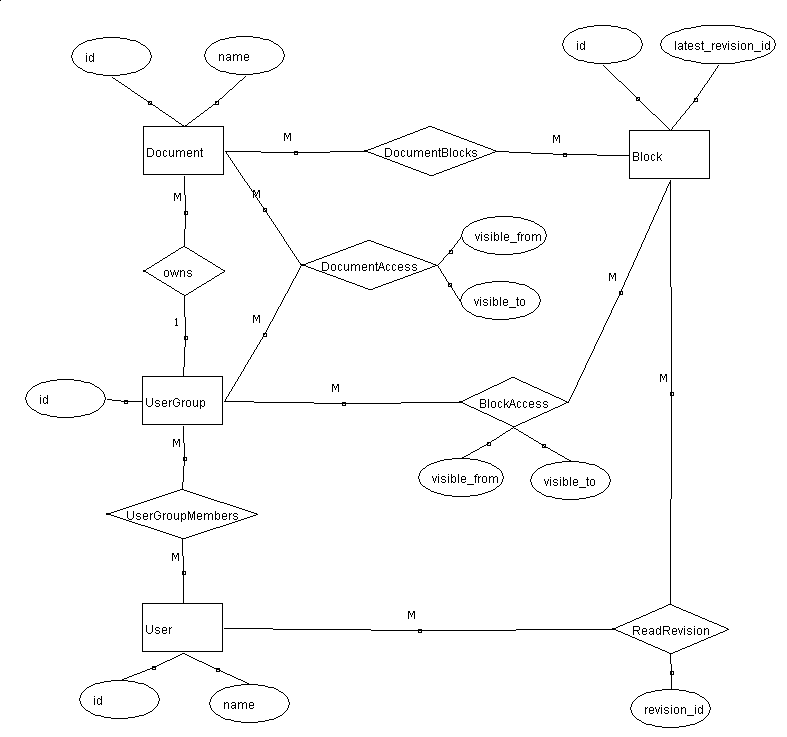
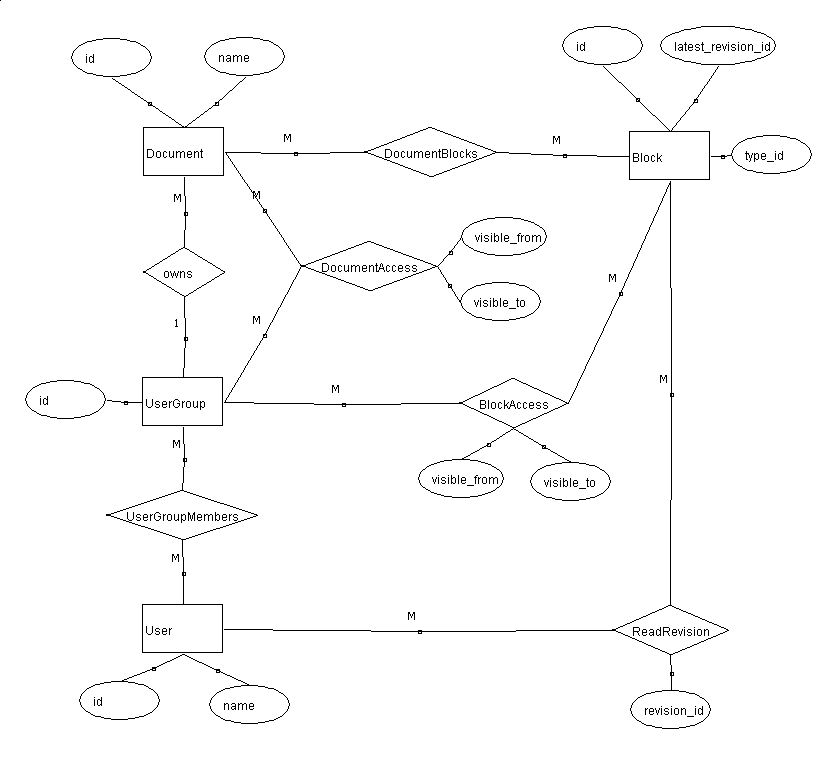
Added timdb.py and updated erkka files.

diff --git a/timApp/timdb.py b/timApp/timdb.py
@@ -1,0 +1,73 @@
+import sqlite3
+from enum import Enum
+
+BlockType = Enum('BlockType', 'DocumentBlock Comment Note Answer')
+
+class TimDb(object):
+    '''
+    classdocs
+    '''
+
+    def __init__(self, app, g):
+        '''
+        Constructor
+        '''
+        self.app = app
+        self.g = g
+        
+    def init(self):
+        with self.app.app_context():
+            db = self.getDb()
+            with self.app.open_resource('schema.sql', mode='r') as f:
+                db.cursor().executescript(f.read())
+            db.commit()
+
+    def connect(self):
+        """Connects to the specific database."""
+        rv = sqlite3.connect(self.app.config['DATABASE'])
+        rv.row_factory = sqlite3.Row
+        return rv
+    
+    def getDb(self):
+        """Opens a new database connection if there is none yet for the
+        current application context.
+        """
+        if not hasattr(self.g, 'sqlite_db'):
+            self.g.sqlite_db = connect()
+        return self.g.sqlite_db
+    
+    def createUser(self, name):
+        """Creates a new user with the specified name."""
+        db = getDb()
+        db.execute('insert into User (name) values (?)', [name])
+        db.commit()
+    
+    def createDocument(self, name):
+        """Creates a new document with the specified name."""
+        db = getDb()
+        db.execute('insert into Document (name) values (?)', [name])
+        db.commit()
+        #TODO: Create a file for the document in file system.
+        #TODO: Put the document file under version control (using a Git module maybe?).
+        return
+    
+    def addMarkDownBlock(self, document_id, content, previous_block_id):
+        """Adds a new markdown block to the specified document."""
+        db = getDb()
+        db.execute('insert into Block (type_id) values (?)', [BlockType.DocumentBlock])
+        block_id = db.last_insert_rowid()
+        print(block_id)
+        db.commit()
+        #TODO: Create a file for the block using its id as the file name.
+        #TODO: Modify the document file appropriately.
+        return
+    
+    def modifyMarkDownBlock(self, block_id, new_content):
+        return
+    
+    def createDocumentFromBlocks(self, dir, document_name):
+        """
+        Creates a document from existing blocks in the specified directory.
+        The blocks should be ordered alphabetically.
+        """
+        return
